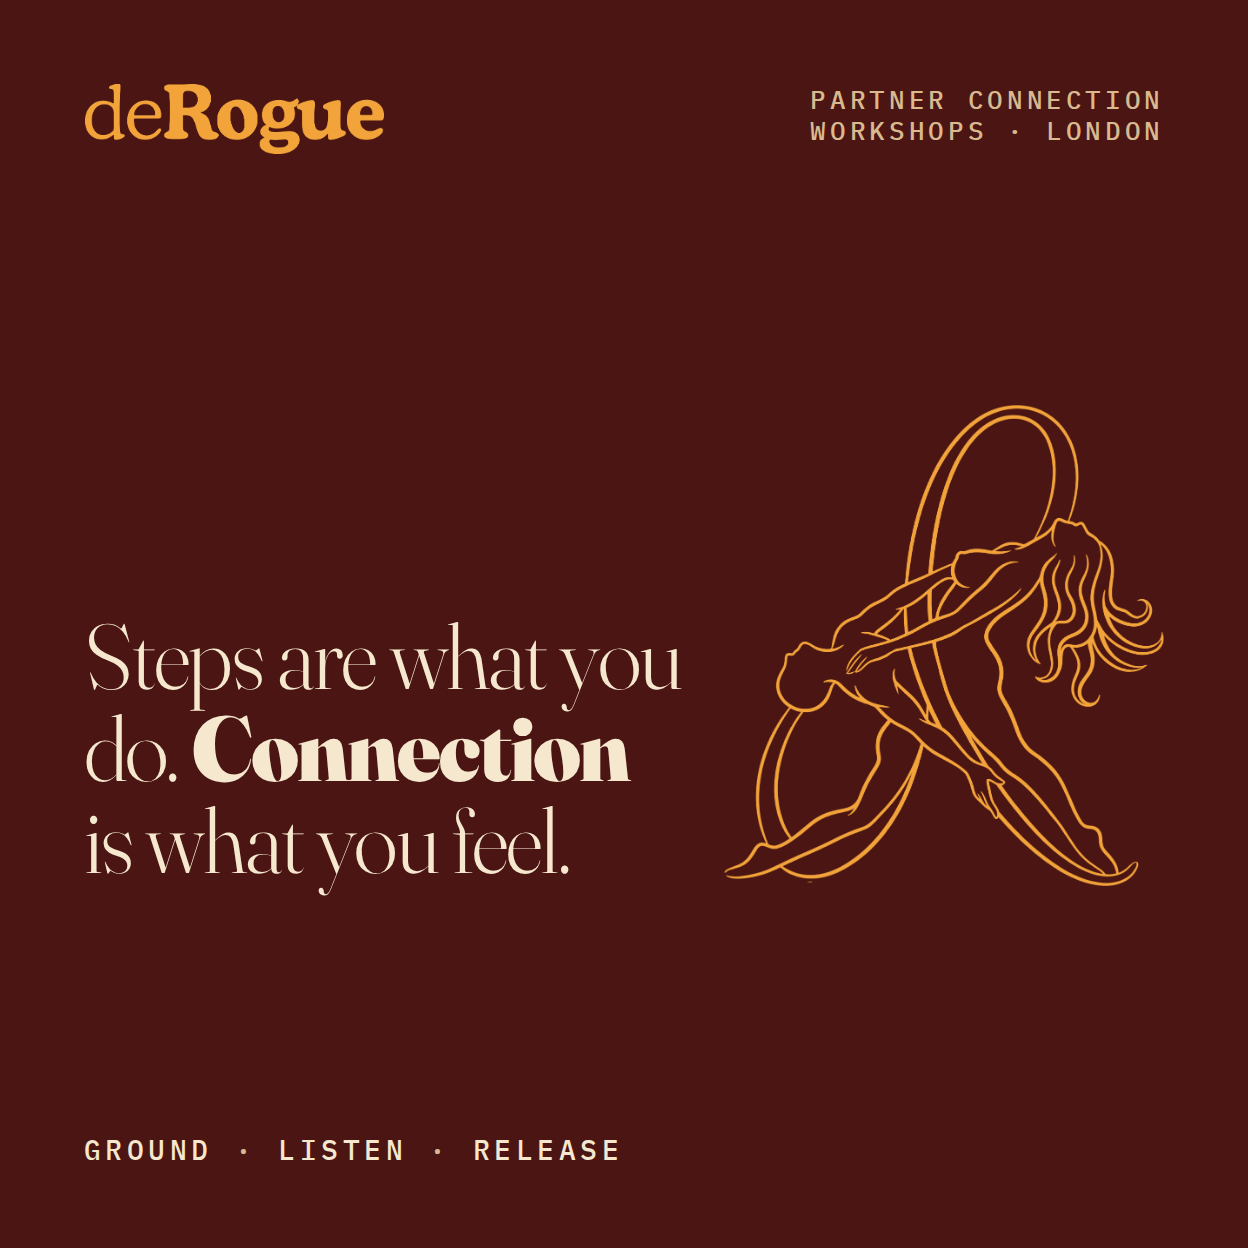
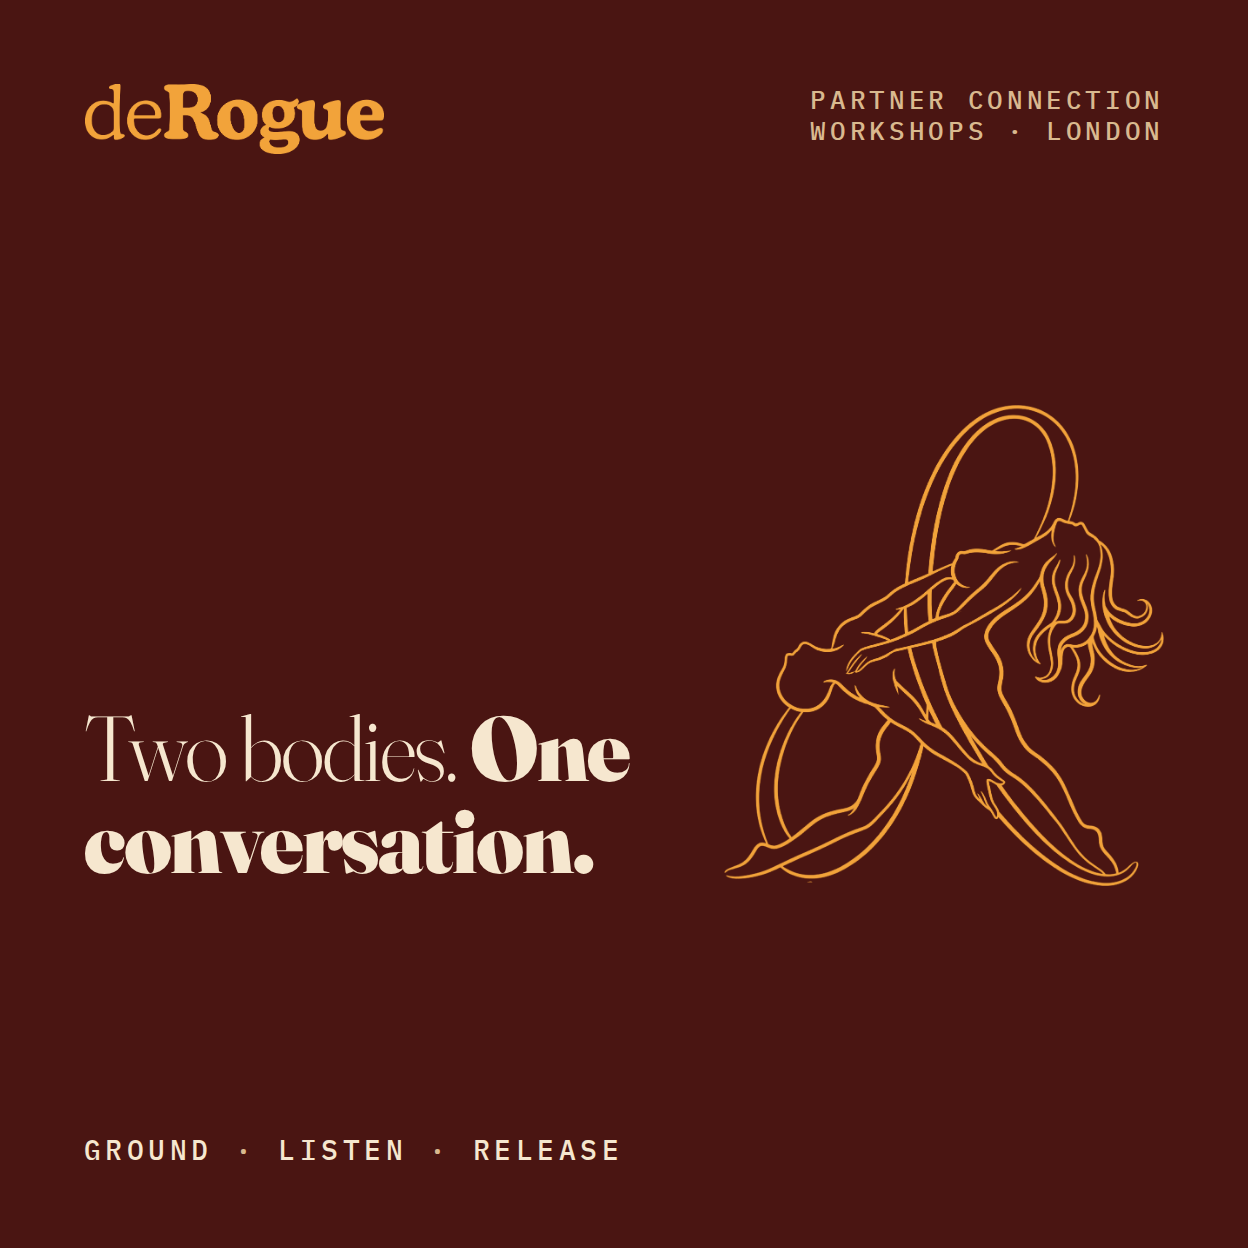
deRogue: new tagline and note the drinks break
Replace the 'Steps are what you do' line with 'Two bodies. One
conversation.' and mention the 5-minute drinks break for Workshop 01.

Claude-Session: https://claude.ai/code/session_015H6vXBxX7D9SPMbuhiTbZj

Changed region(s): [[0.0625, 0.5, 0.5625, 0.7188]]

diff --git a/derogue/social/templates.html b/derogue/social/templates.html
@@ -48,7 +48,7 @@
     <p class="eyebrow" style="margin:0; text-align:right">Partner connection<br>workshops · London</p>
   </div>
   <div style="display:grid; grid-template-columns: 1fr 440px; gap:40px; align-items:end">
-    <p class="disp" style="font-size:92px; line-height:1; font-weight:300">Steps are what you do. <b>Connection</b> is what you feel.</p>
+    <p class="disp" style="font-size:92px; line-height:1; font-weight:300">Two bodies. <b>One conversation.</b></p>
     <div class="mark" style="width:440px"></div>
   </div>
   <div class="triad"><span>Ground</span><i>·</i><span>Listen</span><i>·</i><span>Release</span></div>
@@ -78,7 +78,7 @@
     <p class="disp" style="font-size:78px; line-height:1; font-weight:400">The Listening <b>Frame</b></p>
   </div>
   <dl class="facts" style="margin:0">
-    <dt>When</dt><dd>Wednesday 30 September<small>7:30–9 pm · 90 minutes</small></dd>
+    <dt>When</dt><dd>Wednesday 30 September<small>7:30–9 pm · 5-min drinks break</small></dd>
     <dt>Where</dt><dd>Keystone Crescent<small>King's Cross, N1 9DX</small></dd>
     <dt>Price</dt><dd>£10 + booking fee<small>All levels · any dance style · no partner needed</small></dd>
   </dl>
@@ -114,7 +114,7 @@
     <p style="font-size:38px; line-height:1.4; color:var(--soft); margin:0; max-width:24ch">Ninety minutes on the thing every partner dance depends on. Bachata is the lab. Your dance is the point.</p>
   </div>
   <dl class="facts" style="margin:0; font-size:40px; grid-template-columns: 200px 1fr">
-    <dt>When</dt><dd>Wednesday 30 September<small>7:30–9 pm</small></dd>
+    <dt>When</dt><dd>Wednesday 30 September<small>7:30–9 pm · 5-min drinks break</small></dd>
     <dt>Where</dt><dd>Keystone Crescent<small>King's Cross, London N1 9DX</small></dd>
     <dt>Price</dt><dd>£10 + booking fee<small>No partner needed</small></dd>
   </dl>

diff --git a/derogue/index.html b/derogue/index.html
@@ -274,7 +274,7 @@
       <div class="stub">
         <dl>
           <div class="row"><dt>Date</dt><dd><time datetime="2026-09-30">Wednesday 30 September 2026</time></dd></div>
-          <div class="row"><dt>Time</dt><dd><time datetime="2026-09-30T19:30">7:30</time>–<time datetime="2026-09-30T21:00">9:00 pm</time><small>90 minutes</small></dd></div>
+          <div class="row"><dt>Time</dt><dd><time datetime="2026-09-30T19:30">7:30</time>–<time datetime="2026-09-30T21:00">9:00 pm</time><small>With a 5-minute drinks break</small></dd></div>
           <div class="row"><dt>Venue</dt><dd>Keystone Crescent<small>King's Cross, London N1 9DX</small></dd></div>
           <div class="row"><dt>Price</dt><dd>£10 + booking fee</dd></div>
           <div class="row"><dt>Who</dt><dd>All levels, any dance style<small>No partner needed. We rotate.</small></dd></div>
@@ -295,7 +295,7 @@
     <div class="phil">
       <p class="eyebrow">Philosophy</p>
       <div>
-        <h2 id="ph-h" class="manifesto">Steps are what you do. <b>Connection</b> is what you feel. deRogue is about the second one.</h2>
+        <h2 id="ph-h" class="manifesto">Every partner dance is a <b>conversation.</b> deRogue teaches the listening.</h2>
         <div class="cols">
           <div>
             <h3>Ground</h3>

diff --git a/derogue/social/CAPTIONS.md b/derogue/social/CAPTIONS.md
@@ -35,7 +35,7 @@ We work on
 · Listen: lead asks, follow answers, both hear
 · Pause: what to do when the connection drops
 
-Wednesday 30 September · 7:30–9 pm
+Wednesday 30 September · 7:30–9 pm (with a 5-minute drinks break)
 Keystone Crescent, King's Cross, N1 9DX
 £10 + booking fee · all levels · any dance style · no partner needed
 
